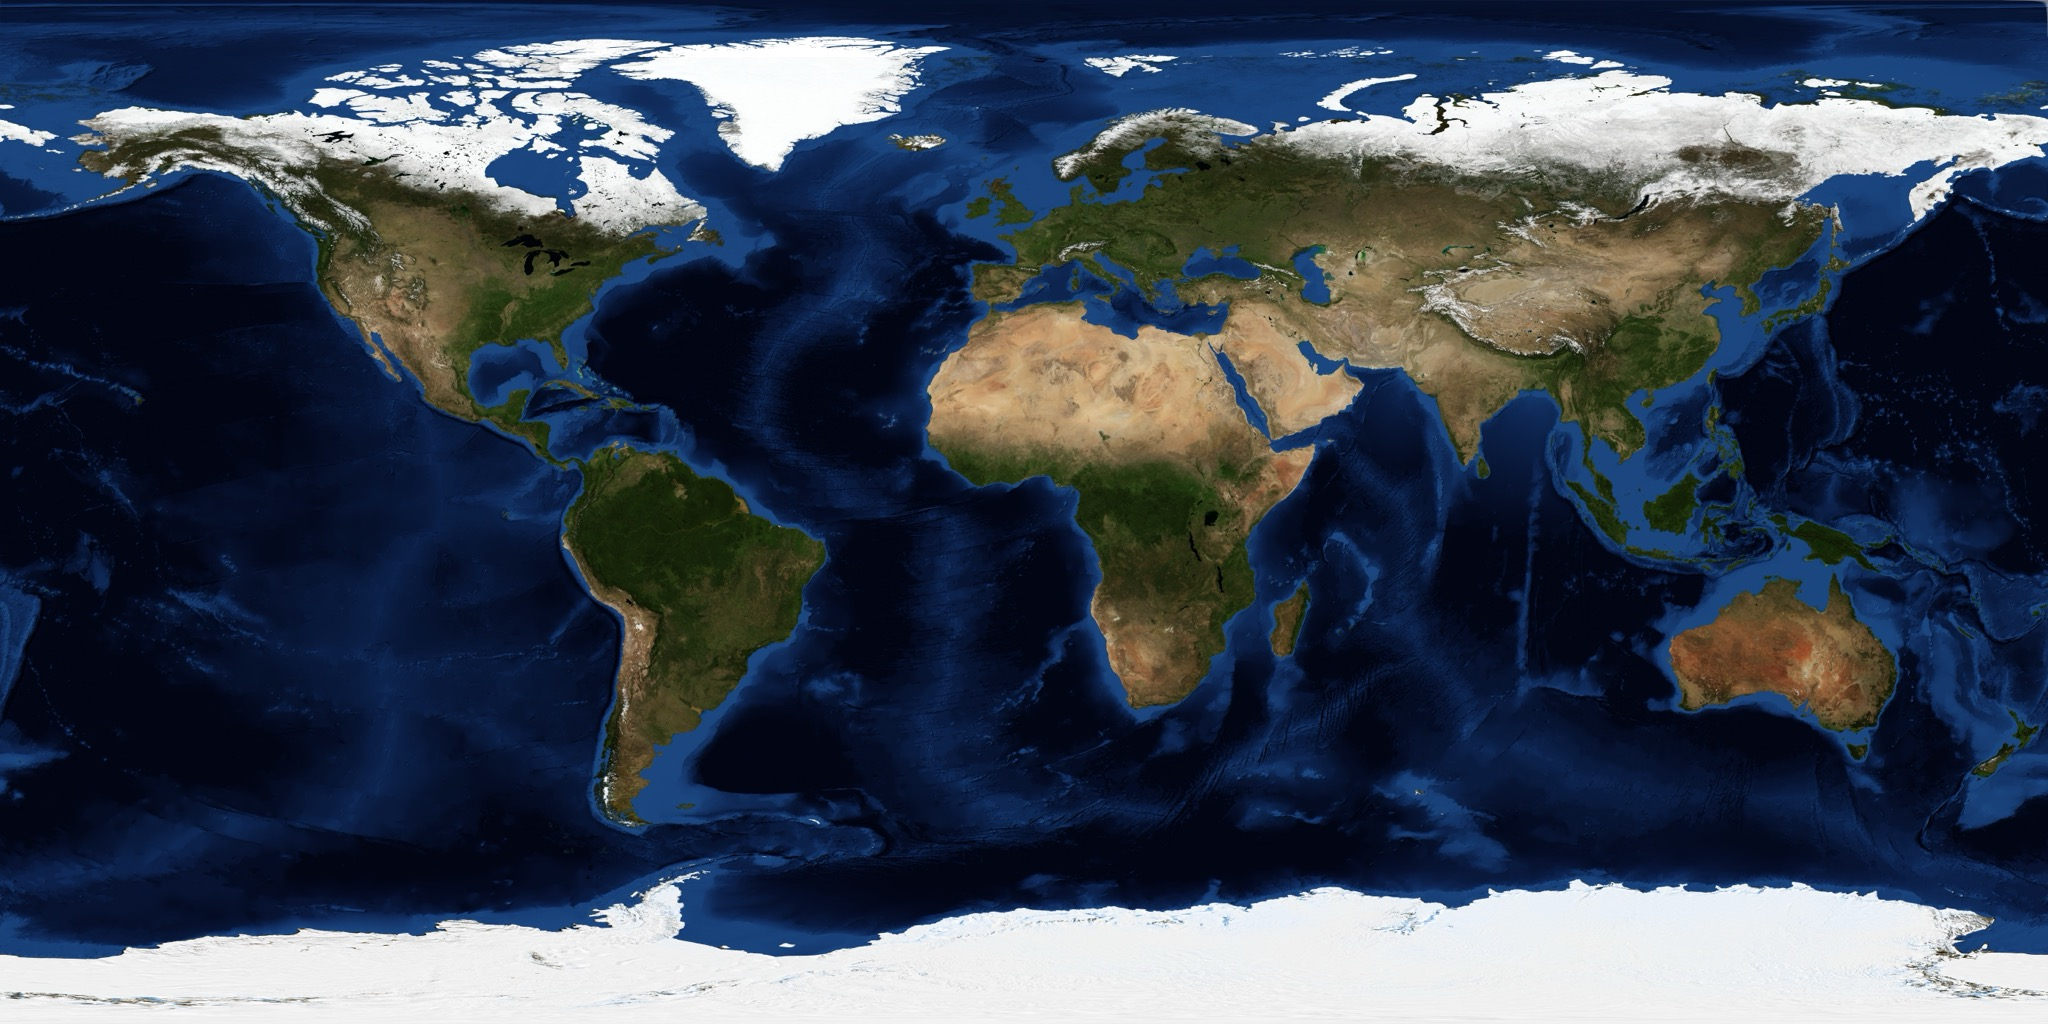
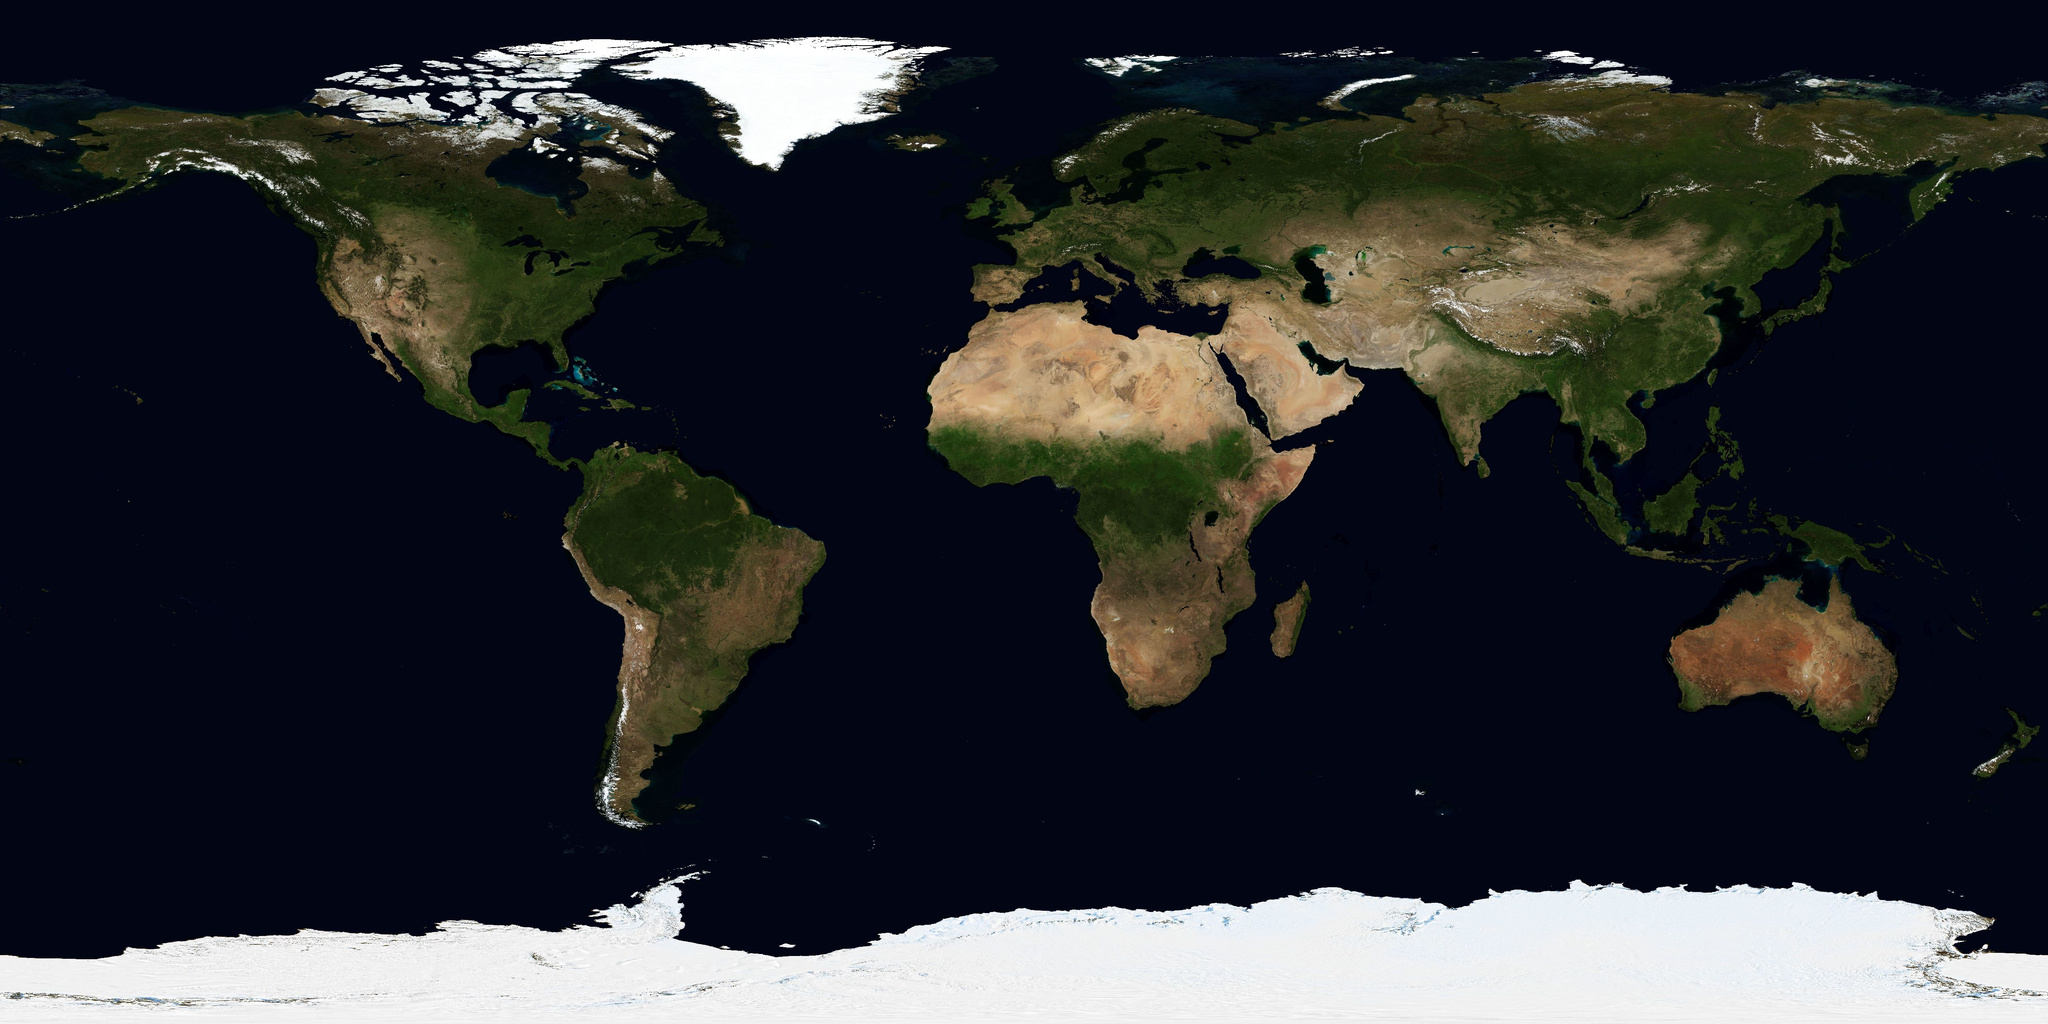
Match Globe fallback imagery to HD tiles for consistent ocean colors

diff --git a/scripts/build-globe-background.py b/scripts/build-globe-background.py
@@ -1,0 +1,61 @@
+#!/usr/bin/env python3
+"""Build the bundled globe from the same NASA GIBS product as its HD tiles.
+
+Requires Pillow only when rebuilding assets, never at application startup.
+Level 3 exactly covers the world with ten columns and five rows of 512px
+tiles. Keeping the imagery product identical avoids ocean-color changes when
+the renderer exposes its bundled fallback during a swipe or tile download.
+"""
+
+import argparse
+from concurrent.futures import ThreadPoolExecutor
+import io
+from pathlib import Path
+import sys
+from urllib.request import Request, urlopen
+
+from PIL import Image
+
+ROOT = Path(__file__).resolve().parents[1]
+sys.path.insert(0, str(ROOT / "UI"))
+from globe_tiles import TileKey, TILE_PIXELS
+
+
+def main():
+    parser = argparse.ArgumentParser(description=__doc__)
+    parser.add_argument("--cache-dir", type=Path, required=True)
+    parser.add_argument("--output-dir", type=Path, default=ROOT / "UI" / "assets")
+    args = parser.parse_args()
+
+    def load(key):
+        path = args.cache_dir / str(key.level) / str(key.row) / f"{key.col}.jpeg"
+        if not path.exists():
+            request = Request(key.url, headers={"User-Agent": "ituner-sdr-globe-assets/1"})
+            with urlopen(request, timeout=30) as response:
+                payload = response.read()
+            # Validate before caching a response, including the expected size.
+            with Image.open(io.BytesIO(payload)) as tile:
+                assert tile.size == (TILE_PIXELS, TILE_PIXELS), key
+                tile.load()
+            path.parent.mkdir(parents=True, exist_ok=True)
+            path.write_bytes(payload)
+        with Image.open(path) as tile:
+            assert tile.size == (TILE_PIXELS, TILE_PIXELS), key
+            return key, tile.convert("RGB")
+
+    keys = [TileKey(3, row, col) for row in range(5) for col in range(10)]
+    world = Image.new("RGB", (10 * TILE_PIXELS, 5 * TILE_PIXELS))
+    with ThreadPoolExecutor(max_workers=4) as workers:
+        for key, tile in workers.map(load, keys):
+            world.paste(tile, (key.col * TILE_PIXELS, key.row * TILE_PIXELS))
+    args.output_dir.mkdir(parents=True, exist_ok=True)
+    for width in (2048, 4096):
+        path = args.output_dir / f"nasa-blue-marble-{width}.jpg"
+        world.resize((width, width // 2), Image.Resampling.LANCZOS).save(
+            path, quality=95, subsampling=0, optimize=True,
+        )
+        print(path)
+
+
+if __name__ == "__main__":
+    main()

diff --git a/docs/kiwi-sdr-radio-interface.md b/docs/kiwi-sdr-radio-interface.md
@@ -326,9 +326,13 @@ The compact `VIEW` control on the map rail cycles the built-in styles:
 `ATLAS` (boundaries plus a restrained latitude/longitude grid), and `SAT`
 (NASA Blue Marble physical/satellite-style imagery with the political-boundary
 overlay). `SAT` uses a 2048x1024 texture on Pi and a 4096x2048 texture in the
-desktop simulator. It also applies a UTC-driven day/night terminator with a
-subtle twilight transition. The styles are native OpenGL layers and need no
-network tile service.
+desktop simulator. Both bundled textures use the same NASA GIBS Blue Marble
+Next Generation product as the regional HD tiles, keeping ocean colors
+consistent when a swipe exposes the background. The complete bundled globe
+works offline; optional regional detail loads asynchronously and is cached.
+New tile uploads pause during swipes to keep touch frames smooth. `SAT` also
+applies a UTC-driven day/night terminator with a subtle twilight transition.
+See `UI/assets/GLOBE-IMAGERY.md` for the imagery source and rebuild command.
 The map is only a visual receiver selector for now: signal comparison,
 heatmaps, and multiple neighboring receiver streams are deliberately separate
 later work.

diff --git a/UI/assets/GLOBE-IMAGERY.md b/UI/assets/GLOBE-IMAGERY.md
@@ -1,0 +1,23 @@
+# Globe imagery
+
+The bundled `nasa-blue-marble-2048.jpg` and `nasa-blue-marble-4096.jpg`
+backgrounds use NASA GIBS **BlueMarble_NextGeneration**, the same imagery
+product as the regional HD tiles in `globe_tiles.py`:
+
+https://gibs.earthdata.nasa.gov/wmts/epsg4326/best/BlueMarble_NextGeneration/default/500m/{level}/{row}/{col}.jpeg
+
+The backgrounds are assembled from the complete level 3 world (10 × 5 tiles,
+5120 × 2560 pixels) and reduced to their runtime sizes. No color adjustment
+is applied. This keeps ocean colors consistent when detailed tiles give way
+to the background while panning, before tiles are available, or offline.
+Natural differences in fine detail between image resolutions remain.
+
+To rebuild with Python and Pillow installed:
+
+```sh
+python3 scripts/build-globe-background.py --cache-dir /tmp/ituner-globe-assets
+```
+
+Source: NASA Earth Observatory / NASA GIBS, Blue Marble Next Generation.
+The existing GPU lighting, touch throttling, and deferred tile uploads do not
+change; the generated files replace the previously different base imagery.
